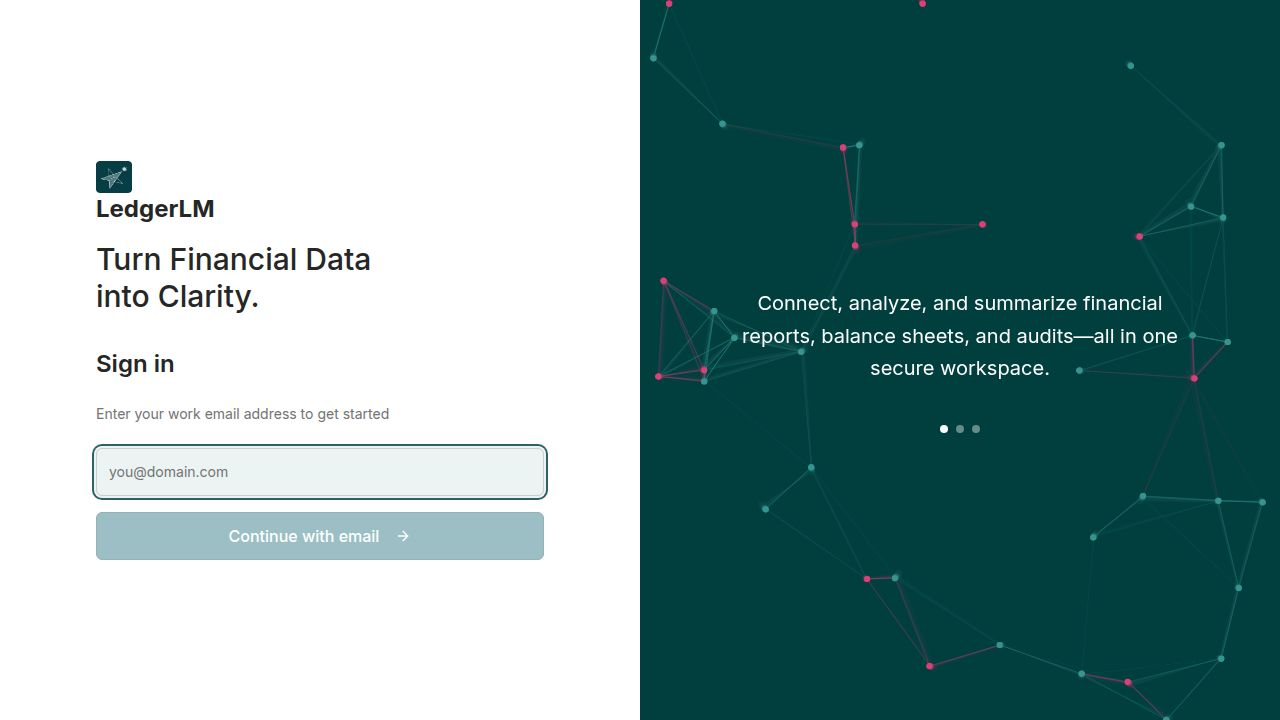
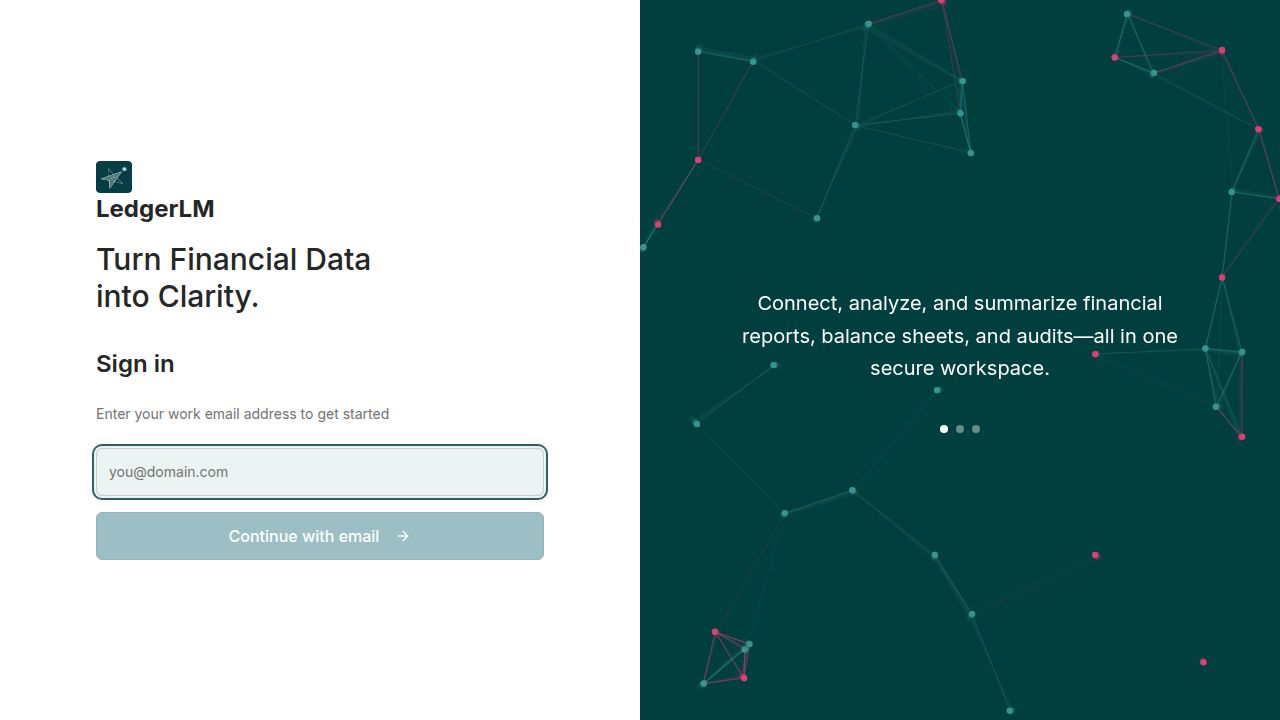
Fix query endpoint to correctly handle multi-metric calculations
Adjust the structured query endpoint to properly process results from multi-metric calculations, preventing errors when SQL queries are pre-executed.

Replit-Commit-Author: Agent
Replit-Commit-Session-Id: 25b33a7b-de29-4b11-a0fe-f6c2087462d3
Replit-Commit-Checkpoint-Type: full_checkpoint
Replit-Commit-Event-Id: f4ce8ca0-4a45-4f2a-ae18-9fdd5b4a9663
Replit-Commit-Screenshot-Url: https://storage.googleapis.com/screenshot-production-us-central1/9344d74b-0c6d-402b-95ed-00d2c859d007/25b33a7b-de29-4b11-a0fe-f6c2087462d3/r2OYoJX

diff --git a/ledgerlm/python_backend/api/routes/semantic_sql.py b/ledgerlm/python_backend/api/routes/semantic_sql.py
@@ -177,35 +177,47 @@ async def execute_structured_query(request: StructuredQueryRequest):
                 error=f"Failed to compile SQL: {sql_result.get('error')}"
             )
         
-        generated_sql = sql_result['sql']
-        params = sql_result['params']
         calc_type = sql_result.get('calculation_type', 'unknown')
-        logger.info(
-            f"\n{'='*60}\n"
-            f"[SQL_EXEC] metric     = {calc_type}\n"
-            f"[SQL_EXEC] params     = {params}\n"
-            f"[SQL_EXEC] sql        =\n{generated_sql}\n"
-            f"{'='*60}"
-        )
-        
-        exec_result = semantic_sql_service.execute_query(
-            generated_sql,
-            params,
-            request.cube_id,
-            "orchestrator",
-            skip_logging=True
-        )
-        
-        if not exec_result.get('success'):
-            return StructuredQueryResponse(
-                success=False,
-                error=f"Query execution failed: {exec_result.get('error')}"
+
+        # Multi-metric path: SQL already executed inside _compile_multi_metric_sql.
+        # Results, columns and execution_ms are embedded directly in the result dict.
+        if calc_type == 'multi_metric':
+            fact_results = sql_result['results']
+            generated_sql = sql_result.get('sql_query', '')
+            exec_result = {'execution_ms': sql_result.get('execution_ms', 0)}
+            logger.info(
+                f"[SQL_RESULT] metric=multi_metric | rows={len(fact_results)} "
+                f"| time={exec_result['execution_ms']}ms"
             )
-        
-        fact_results = exec_result['results']
-        logger.info(
-            f"[SQL_RESULT] metric={calc_type} | rows={len(fact_results)} | time={exec_result.get('execution_ms', '?')}ms"
-        )
+        else:
+            generated_sql = sql_result['sql']
+            params = sql_result['params']
+            logger.info(
+                f"\n{'='*60}\n"
+                f"[SQL_EXEC] metric     = {calc_type}\n"
+                f"[SQL_EXEC] params     = {params}\n"
+                f"[SQL_EXEC] sql        =\n{generated_sql}\n"
+                f"{'='*60}"
+            )
+
+            exec_result = semantic_sql_service.execute_query(
+                generated_sql,
+                params,
+                request.cube_id,
+                "orchestrator",
+                skip_logging=True
+            )
+
+            if not exec_result.get('success'):
+                return StructuredQueryResponse(
+                    success=False,
+                    error=f"Query execution failed: {exec_result.get('error')}"
+                )
+
+            fact_results = exec_result['results']
+            logger.info(
+                f"[SQL_RESULT] metric={calc_type} | rows={len(fact_results)} | time={exec_result.get('execution_ms', '?')}ms"
+            )
         
         # Combine plan data with fact data if both exist
         combined_results = []